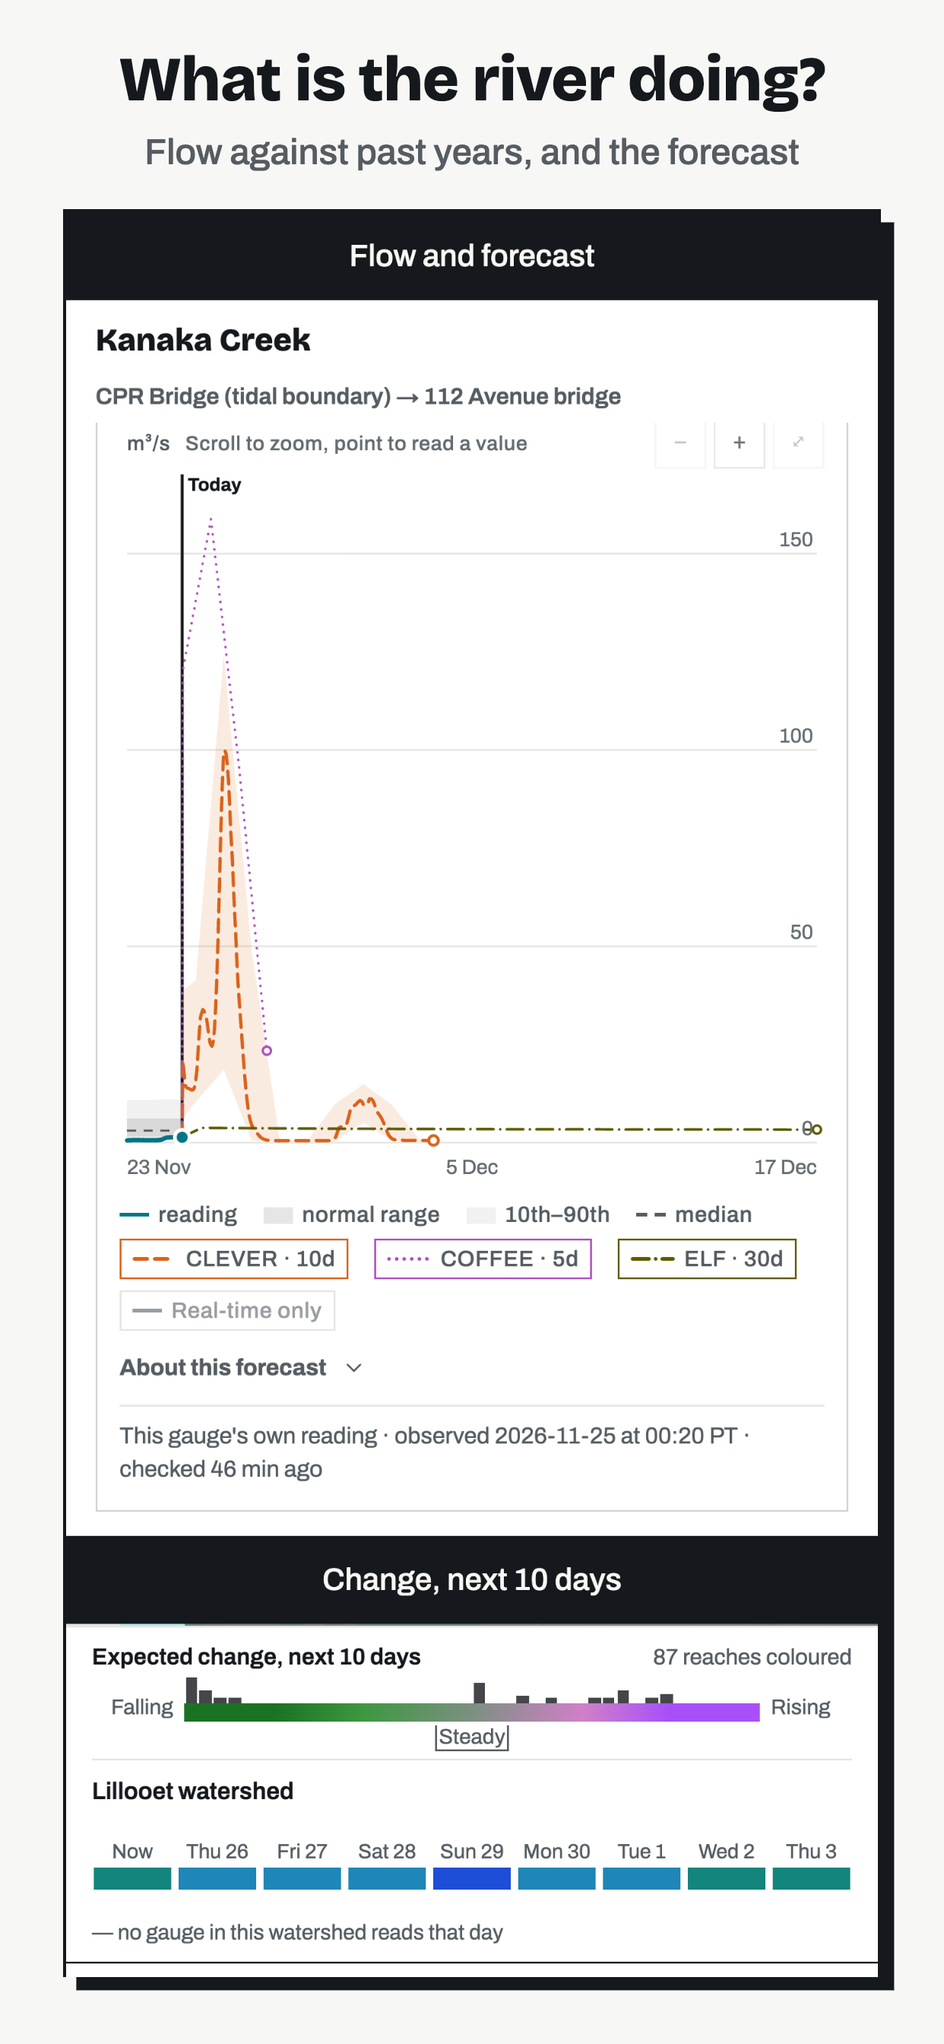
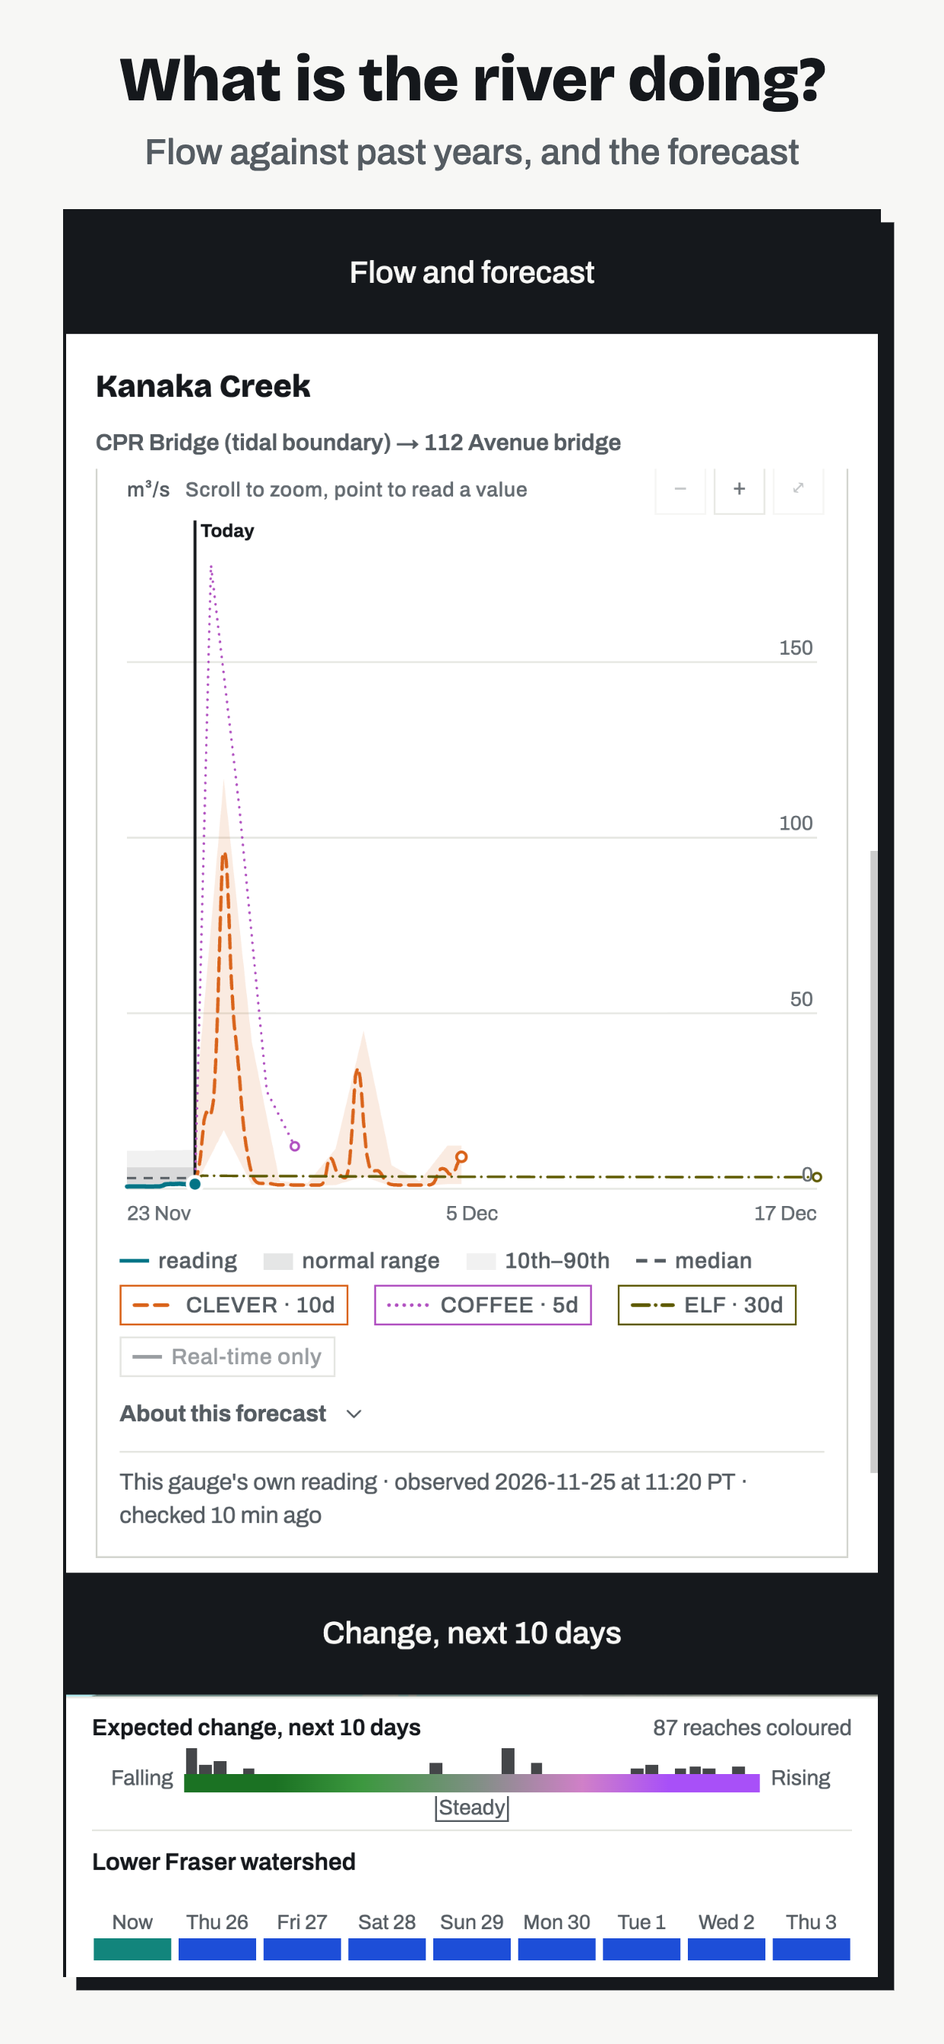
feat(T1072): drop the Play tablet sets; frame 3 names the river's own watershed
Owner 2026-11-25: "Drop tablet set. And you can get them to fix picture".
The push clears the tablet slots. Frame 3: the Change panel names the watershed most on
screen; the scene frames the map on the river's watershed, a check refuses another name,
and the crops include the day strip.

diff --git a/app/tools/store-shots/checks.test.ts b/app/tools/store-shots/checks.test.ts
@@ -38,9 +38,16 @@ describe('store shot checks', () => {
     expect(judge('15-split-rules', page(), { parts: 1 })[0]).toMatch(/more than one/);
     expect(judge('15-split-rules', page(), {})[0]).toMatch(/more than one/);
   });
+  it('(T1072) the Change panel must name the river\'s own watershed (Lower Fraser for Kanaka Creek), never the neighbour in view', () => {
+    const t = (w: string) => ({ text: `Change 3 reaches coloured\n${w} watershed\nNow`, ids: ['map-horizons-change'] });
+    expect(judge('12-cond-change', page(t('Lillooet')))[0]).toMatch(/names the "Lillooet" watershed, not "Lower Fraser"/);
+    expect(judge('12-cond-change', page({ text: 'Change 3 reaches coloured', ids: ['map-horizons-change'] }))[0]).toMatch(/names the "null" watershed/);
+    expect(judge('12-cond-change', page(t('Lillooet')), { watershedSeen: ['Lillooet', 'Seton Lake'] })[0]).toMatch(/tried: Lillooet, Seton Lake/);
+  });
   it('the Conditions maps need the 20 km camera and coloured reaches', () => {
-    expect(judge('12-cond-change', page({ text: 'Change 3 reaches coloured', ids: ['map-horizons-change'] }))).toEqual([]);
-    expect(judge('12-cond-change', page({ text: 'Change 3 reaches coloured', ids: ['map-horizons-change'], scale: '10 km' }))[0]).toMatch(/20 km/);
+    const ok = { text: 'Change 3 reaches coloured\nLower Fraser watershed\nNow', ids: ['map-horizons-change'] };
+    expect(judge('12-cond-change', page(ok))).toEqual([]);
+    expect(judge('12-cond-change', page({ ...ok, scale: '10 km' }))[0]).toMatch(/20 km/);
     expect(judge('13-cond-forecast', page({ text: 'Forecast still loading', ids: [] })).join()).toMatch(/still loading/);
   });
 });

diff --git a/deploy/staging/play-listing-push.py b/deploy/staging/play-listing-push.py
@@ -2,7 +2,7 @@
 """Push the store listing (text, phone screenshots, icon, feature graphic, promo video URL) to Google Play.
 
     play-listing-push.py [--package ca.canifishthis.app] [--language en-US ...] [--shots DIR] [--video-url URL]
-                         [--tablet7 DIR] [--tablet10 DIR] [--key ~/.canifishthis/play-service-account.json]
+                         [--key ~/.canifishthis/play-service-account.json]
                          [--plan | --commit]
 
 --plan (T319) sends NOTHING: it checks every file and the text and prints what would go to which listing, in order.
@@ -15,10 +15,11 @@ print what would change, then DELETE the edit; nothing reaches the listing. --co
 - Phone screenshots: the pictures in --shots (default: the repo's one set, STORE/play-phone), in file-name
   order, REPLACE the listing's phone screenshots (skipped when Play already holds the same files in the same order).
 - --no-shots (T319): text, icon and feature graphic only; every screenshot set on Play is left as it is.
-- Tablet screenshots (T319, T1072): --tablet7 / --tablet10 folders, the same way (7-inch and 10-inch sets); the defaults are
-  the repo's play-tablet7 / play-tablet10, the same committed set the App Store push reads (store-shots.mjs writes them);
-  --no-shots leaves all three sets alone.
-- (T1127) The pictures in each of the three folders must be EXACTLY the list app/tools/store-shots.json implies
+- Tablet screenshots (T1072, owner 2026-11-25 "Drop tablet set"): there is NO tablet set any more, and no --tablet7 /
+  --tablet10. The 7-inch and 10-inch slots are always CLEARED: whatever tablet screenshots Play holds from the old set are
+  deleted (images.deleteall) in the same edit, so no old tablet picture stays on the listing; a slot already empty is left
+  alone. Plan mode says so for each slot. --no-shots leaves them (and the phone set) alone.
+- (T1127) The pictures in the phone folder must be EXACTLY the list app/tools/store-shots.json implies
   (deploy/staging/store_shots_list.py): a leftover picture or a missing one stops the run by name, in every mode, before
   any network call. Plan mode prints the count and names per size.
 - Icon + feature graphic: handoff/PLAN/app-integration/store/graphics/{app-icon-512,feature-graphic-1024x500}.png,
@@ -51,6 +52,7 @@ LISTING = ROOT / "app/store-listing/listing.json"
 DESCRIPTION = LISTING
 LIMITS = {"title": 30, "shortDescription": 80, "fullDescription": 4000}
 CANDIDATE_LANGUAGES = ("en-CA", "en-US")
+TABLET_SLOTS = {"sevenInchScreenshots": "7-inch", "tenInchScreenshots": "10-inch"}   # (T1072) always cleared: no tablet set
 MIME = {"PNG": "image/png", "JPEG": "image/jpeg"}
 
 
@@ -144,8 +146,6 @@ def main():
     ap.add_argument("--feature", type=Path, default=GRAPHICS / "feature-graphic-1024x500.png")
     ap.add_argument("--video-url")
     ap.add_argument("--key", default=os.path.expanduser("~/.canifishthis/play-service-account.json"))
-    ap.add_argument("--tablet7", type=Path, default=SET / "play-tablet7", help="7-inch tablet screenshots (default: the repo's committed set)")
-    ap.add_argument("--tablet10", type=Path, default=SET / "play-tablet10", help="10-inch tablet screenshots (default: the repo's committed set)")
     ap.add_argument("--no-shots", action="store_true", help="text, icon and feature graphic only; screenshots left as they are")
     ap.add_argument("--appstore", action="store_true", help="print the App Store Connect fields with length/limit; sends nothing")
     mode = ap.add_mutually_exclusive_group()
@@ -160,21 +160,14 @@ def main():
     text = read_text()
     try:   # (T1127) each size folder must hold exactly store-shots.json's list: a leftover or a gap stops the run, by name
         shots = [] if a.no_shots else pictures(a.shots, "play-phone")
-        tablets = {} if a.no_shots else {k: pictures(d, t) for k, d, t in (
-            ("sevenInchScreenshots", a.tablet7, "play-tablet7"), ("tenInchScreenshots", a.tablet10, "play-tablet10")) if d}
     except ValueError as e:
         die(str(e))
     if not a.no_shots and not 2 <= len(shots) <= 8:
         die(f"{a.shots} holds {len(shots)} screenshots; Play takes 2-8 phone screenshots")
-    if a.no_shots:
-        a.tablet7 = a.tablet10 = None   # --no-shots leaves every screenshot set alone, the tablet defaults included
     images = {"icon": [a.icon], "featureGraphic": [a.feature]}
     if not a.no_shots:
         images["phoneScreenshots"] = shots
-    for kind, tab in tablets.items():
-        if not 1 <= len(tab) <= 8:
-            die(f"{kind}: {len(tab)} screenshots; Play takes up to 8 per tablet size")
-        images[kind] = tab
+    cleared = [] if a.no_shots else list(TABLET_SLOTS)   # (T1072) no tablet set: those slots are emptied, never left holding the old set
     mime = {p: check_image(kind, p) for kind, paths in images.items() for p in paths}
     print(f"assets fit Play's rules: {len(shots)} screenshots, icon, feature graphic; text "
           f"{len(text['shortDescription'])}/80 short, {len(text['fullDescription'])}/4000 full")
@@ -192,6 +185,10 @@ def main():
                 with Image.open(p) as im:
                     w, h = im.size
                 print(f"    {i}. {p.relative_to(ROOT) if p.is_relative_to(ROOT) else p}  {w}x{h}  {p.stat().st_size // 1024} KB")
+        for kind in cleared:
+            print(f"  {kind}: CLEARED ({TABLET_SLOTS[kind]}: no tablet set any more; whatever Play holds there is deleted, an empty slot is left)")
+        if not cleared:
+            print("  tablet slots (7-inch, 10-inch): left as they are (--no-shots)")
         print("plan only: nothing sent. Without --plan: a validated dry run (uploads into an edit, then deletes it); --commit pushes.")
         return
 
@@ -209,7 +206,7 @@ def main():
         for lang, l in listings.items():
             print(f"  [{lang}] title={l.get('title', '')!r} short={len(l.get('shortDescription', ''))} chars "
                   f"full={len(l.get('fullDescription', ''))} chars video={l.get('video', '') or 'none'}")
-            for kind in images:
+            for kind in [*images, *cleared]:
                 got = ok(s.get(f"{e}/listings/{lang}/{kind}"), f"images.list {lang} {kind}").get("images", [])
                 listings[lang].setdefault("_images", {})[kind] = [i.get("sha256", "") for i in got]
                 print(f"    {kind}: {len(got)}")
@@ -242,6 +239,11 @@ def main():
                     ok(r, f"images.upload {lang} {kind} {p.name}")
                 print(f"  [{lang}] {kind}: {len(have.get(kind, []))} -> {len(paths)} "
                       f"({', '.join(p.name for p in paths)})")
+            for kind in cleared:
+                n = len(have.get(kind, []))
+                if n:
+                    ok(s.delete(f"{e}/listings/{lang}/{kind}"), f"images.deleteall {lang} {kind}")
+                print(f"  [{lang}] {kind}: {n} -> 0 ({TABLET_SLOTS[kind]}: cleared)" if n else f"  [{lang}] {kind}: already empty")
 
         ok(s.post(f"{e}:validate"), "edits.validate")
         print("\nvalidate: passed")

diff --git a/pipeline/tests/test_store_push_pictures.py b/pipeline/tests/test_store_push_pictures.py
@@ -20,7 +20,7 @@ sys.path.insert(0, str(STAGING))
 import store_shots_list  # noqa: E402
 
 PLAY, ASC = STAGING / "play-listing-push.py", STAGING / "appstore-screenshots-push.py"
-TARGETS = ["play-phone", "play-tablet7", "play-tablet10", "appstore-6.9", "appstore-6.5"]
+TARGETS = ["play-phone", "appstore-6.9", "appstore-6.5"]
 
 
 def _run(script: Path, *args: str) -> subprocess.CompletedProcess:
@@ -41,7 +41,7 @@ def _set_copy(tmp_path: Path) -> Path:
 def _args(script: Path, root: Path) -> list[str]:
     if script == ASC:
         return ["--shots", str(root)]
-    return ["--shots", str(root / "play-phone"), "--tablet7", str(root / "play-tablet7"), "--tablet10", str(root / "play-tablet10")]
+    return ["--shots", str(root / "play-phone")]
 
 
 def test_helper_list_matches_what_the_json_implies():
@@ -62,11 +62,11 @@ def test_helper_list_is_what_is_committed():
 def test_the_real_set_passes_and_prints_counts(script):
     r = _run(script)
     assert r.returncode == 0, r.stdout + r.stderr
-    assert r.stdout.count("01-01-map.png") >= (3 if script == PLAY else 2)
+    assert r.stdout.count("01-01-map.png") >= (1 if script == PLAY else 2)
     assert "7 screenshots" in r.stdout or ": 7 " in r.stdout
 
 
-@pytest.mark.parametrize("script,folder", [(PLAY, "play-phone"), (PLAY, "play-tablet7"), (PLAY, "play-tablet10"),
+@pytest.mark.parametrize("script,folder", [(PLAY, "play-phone"),
                                            (ASC, "appstore-6.9"), (ASC, "appstore-6.5")])
 def test_a_stray_picture_stops_the_run_by_name(script, folder, tmp_path):
     root = _set_copy(tmp_path)
@@ -79,7 +79,7 @@ def test_a_stray_picture_stops_the_run_by_name(script, folder, tmp_path):
 @pytest.mark.parametrize("script", [PLAY, ASC], ids=["play", "appstore"])
 def test_a_missing_picture_stops_the_run_by_name(script, tmp_path):
     root = _set_copy(tmp_path)
-    folder = "appstore-6.5" if script == ASC else "play-tablet10"
+    folder = "appstore-6.5" if script == ASC else "play-phone"
     (root / folder / "03-21-rivers.png").unlink()
     r = _run(script, *_args(script, root))
     assert r.returncode != 0
@@ -94,3 +94,14 @@ def test_the_appstore_script_ignores_folders_it_has_no_slot_for(tmp_path):
     r = _run(ASC, "--shots", str(root))
     assert r.returncode == 0, r.stderr
     assert "09-old.png" not in r.stdout
+
+
+def test_the_play_push_has_no_tablet_set_and_says_it_clears_the_slots():
+    """T1072 (owner 2026-11-25 "Drop tablet set"): no tablet option; plan mode states both tablet slots are cleared."""
+    r = _run(PLAY)
+    assert r.returncode == 0, r.stderr
+    assert "sevenInchScreenshots: CLEARED" in r.stdout and "tenInchScreenshots: CLEARED" in r.stdout
+    assert "7-inch" in r.stdout and "10-inch" in r.stdout
+    assert _run(PLAY, "--tablet7", "x").returncode != 0
+    r = _run(PLAY, "--no-shots")
+    assert r.returncode == 0 and "CLEARED" not in r.stdout and "left as they are" in r.stdout

diff --git a/handoff/PLAN/app-integration/tickets/T1072-store-screenshots-and-marketing-content.md b/handoff/PLAN/app-integration/tickets/T1072-store-screenshots-and-marketing-content.md
@@ -19,7 +19,7 @@ a new version, so the set that goes up with the first version stays until the ne
 Found by the iOS chat 2026-11-24 (facts, not yet acted on):
 - The newest complete set is not in the repo: it is on the owner's machine at
   `~/bcfish-session-backup-2026-11-12/store-t319-final-082/` (rendered 2026-11-19 from 0.8.2; 7 frames each in
-  appstore-6.9 at 1320x2868, appstore-6.5 at 1242x2688, play-phone, play-tablet7, play-tablet10; no alpha).
+  appstore-6.9 at 1320x2868, appstore-6.5 at 1242x2688, play-phone, plus two tablet sets since dropped (2026-11-25); no alpha).
 - The repo's `store/light/` holds only the 2026-11-05 set, with a 6.7" folder. `deploy/staging/appstore-screenshots-push.py`
   defaults to that folder but expects appstore-6.9, so its default run finds no 6.9" pictures.
 - Nothing has been uploaded to App Store Connect yet.
@@ -51,9 +51,9 @@ square card with the hard ink shadow; no device frame, status bar, store badge, 
 - condMap fix (tablet10 12-cond-change "reads 5 km"): MapLibre's wheel handler piles up close events, which made the old pair-of-notches loop
   step over the level; now ONE wheel event at a time (about a fifth of a level), the scale bar settled between, out past the target then in to its first
   reading, so it cannot oscillate. The target is 20 km since the owner's zoom-out ask below (the content check and scene changed together).
-- WHERE: the finished set is committed at `handoff/PLAN/app-integration/store/graphics/store/light/{appstore-6.9,appstore-6.5,play-phone,play-tablet7,play-tablet10}/NN-<scene>.png`
+- WHERE: the finished set is committed at `handoff/PLAN/app-integration/store/graphics/store/light/{appstore-6.9,appstore-6.5,play-phone}/NN-<scene>.png` (the two Play tablet sets were dropped 2026-11-25)
   (`.gitignore` there now tracks `store/light` only; raw/ stays ignored). Both push scripts read it with no arguments
-  (`deploy/staging/appstore-screenshots-push.py`, `deploy/staging/play-listing-push.py`; the Play script's tablet defaults are the two tablet folders).
+  (`deploy/staging/appstore-screenshots-push.py`, `deploy/staging/play-listing-push.py`; the Play script has no tablet option: it clears the tablet slots).
 - REGENERATE: `scripts/heavy.sh store-shots 30 -- node app/tools/store-shots.mjs --theme light` (builds its own store-shots web export, T1076;
   `--reuse` serves the export already built).
 Part 2 (marketing words, T1072 work items 2-4) is not in this change.
@@ -68,7 +68,15 @@ Part 2 (marketing words, T1072 work items 2-4) is not in this change.
 - Every part starts and ends on a whole line: the crops were re-picked from the new captures by eye at all four raw sizes, and the label bands now SHARE WHAT IS LEFT (3-7 % each, refused outside that,
   store-shots.mjs `composeRaw`) so no crop has to be bent to make a sum come out.
 - A page that says "Slow connection" is not shot (checks.mjs); the search scene waits for its results instead of a fixed sleep.
-- Known, not fixed: on the tall phones and tablets the conditions panel names the watershed at the map's centre ("Lillooet" / "Seton Lake" watershed on iphone69 and the tablets, "Lower Fraser" on the phone), not the river's own.
+- Was known, now fixed (2026-11-25, see "Owner answers 2026-11-25 (tablets, frame 3)"): on the tall phones the conditions panel named the watershed most on screen ("Lillooet" on iphone69, "Lower Fraser" on the phone), not the river's own.
+
+### Owner answers 2026-11-25 (tablets, frame 3), relayed by the planning chat, his words: "Drop tablet set. And you can get them to fix picture"
+- Tablets dropped: targets `play-tablet7` / `play-tablet10` are gone from `store-shots.json` (and their per-size crops), the two folders are deleted,
+  `play-listing-push.py` has no `--tablet7/--tablet10`. It always clears the 7-inch and 10-inch slots (images.deleteall when Play holds any), so no old-set tablet picture stays;
+  with no tablet screenshots Play, to our understanding, shows the phone screenshots on tablet listings (the app loses only the larger-format treatment).
+- Frame 3 ("What is the river doing?"): the Change panel names the watershed MOST ON SCREEN (`useViewBasin`, ui/src/basin.ts; asked from the map's visible bounds), by design,
+  so on the tall 6.9 view the 20 km map held more Lillooet than Lower Fraser. The shot's scene now frames the map on the river's watershed, and `checks.mjs` refuses a capture whose panel
+  names another watershed. Not a wrong-name bug: the dash key "no gauge in this watershed reads that day" shows for Lower Fraser too (it appears whenever any listed day has no reading), so the frame's crop now ends above it (and above the tab bar's black rule); the phone's crop also now includes the day strip it used to cut off (its last column is clipped by the 360 px width, the app's own layout). `--scenes` now frames only the frames that use a re-shot scene and keeps the rest of each folder. Reshot 2026-11-25 for play-phone, appstore-6.9, appstore-6.5; the other 18 pictures are untouched.
 
 ### Owner additions, 2026-11-25 (verbatim) and what they changed
 - ~00:20: "picutres should be captured quicker ideally. also we should zoom them out a little more so it shows more content on the map views".
@@ -126,7 +134,7 @@ The first App Store version has no "What's New" field (Apple shows it from the s
   not in `app/tools/store-shots.json`'s list, or a listed one missing, stops every mode by name before any network call. Clear them
   (once no release is running from that checkout) or upload from a clean checkout of main; `--plan` / `--check` list exactly 7
   per size, `01-01-map` … `07-06-search`.
-- Play (pictures, tablets, text, icon, feature graphic): `.venv/bin/python deploy/staging/play-listing-push.py --plan` to read what
+- Play (pictures, text, icon, feature graphic; the 7-inch and 10-inch tablet slots are CLEARED, any old tablet screenshots on the listing are deleted in the same edit, plan mode says so): `.venv/bin/python deploy/staging/play-listing-push.py --plan` to read what
   would go, then the same with `--commit`.
 - App Store (once the version exists in App Store Connect): `.venv/bin/python deploy/staging/appstore-screenshots-push.py --check`
   (read-only), then `--commit`. The text fields are pasted from `handoff/PLAN/ios/APP-STORE-SUBMISSION.md`

diff --git a/handoff/PLAN/RESTART-store-content-chat.md b/handoff/PLAN/RESTART-store-content-chat.md
@@ -17,11 +17,10 @@ planning chat; work only in scratchpad worktrees, never the main checkout.
    scenes may be shot from the website (`--web <url>`; only 07-saved-spot and 20-help need the store-shots build).
 3. **The one set: PR #192** (auto-merge set, CI running at 02:15). 35 PNGs in
    `handoff/PLAN/app-integration/store/graphics/store/light/` (`appstore-6.9`, `appstore-6.5`, `play-phone`,
-   `play-tablet7`, `play-tablet10`); both push scripts read it with no arguments (plan modes clean, nothing sent).
+   no tablet sets: dropped 2026-11-25); both push scripts read it with no arguments (plan modes clean, nothing sent).
    Regenerate: `scripts/heavy.sh store-shots 30 -- node app/tools/store-shots.mjs --theme light` (about 6 minutes;
    one frame: add `--reuse --scenes <nn> --only <target>`). One review round is spent. Known nits, owner asked:
-   the watershed name under the flow chart differs by size ("Lower Fraser" on the phone, "Lillooet" on the 6.9");
-   the tablets leave white space (phone layout on a tablet canvas).
+   both answered 2026-11-25 ("Drop tablet set. And you can get them to fix picture"): tablets dropped, frame 3's watershed name fixed (see T1072).
 4. **Listing words: merged (#170, #175).** One source `app/store-listing/listing.json` (+ `full-description.txt`);
    `play-listing-push.py --appstore` prints the App Store fields. Owner's answers (2026-11-24 ~23:55) are in T1072:
    promotional text = his short line, keywords without the name's words, Navigation / Sports, 500 MB, graphic kept.
@@ -42,7 +41,7 @@ planning chat; work only in scratchpad worktrees, never the main checkout.
   no Android system buttons, no "Google Play" or "Android" wording in the shared frames.
 - Play: no store badges, no "Best / #1 / Top / New / Free", no "Download now"; a caption takes at most 20 % of the
   picture; nothing time-bound. Apple 2.3.7: no prices in pictures or text.
-- Sizes differ only in pixels: Play phone 1080x1920 (2 to 8 pictures), tablets 7" 1200x1920 and 10" 1600x2560;
+- Sizes differ only in pixels: Play phone 1080x1920 (2 to 8 pictures), no tablet sets (the push clears the tablet slots);
   App Store 6.9" 1320x2868 (required slot) and 6.5" 1242x2688 (optional once 6.9" is given), 1 to 10, no alpha.
 - App Store pictures change only with a new version; Play's can change any day.
 

diff --git a/handoff/PLAN/play/listing.md b/handoff/PLAN/play/listing.md
@@ -129,7 +129,7 @@ All files are in `handoff/PLAN/app-integration/store/graphics/`.
 | App icon, 512 × 512 PNG | `app-icon-512.png` (the favicon fish, owner 2026-10-29; source `app/apps/mobile/assets/icon/play-512.png`, `app/tools/build-icons.mjs`) | ready |
 | Feature graphic, 1024 × 500, no alpha | `feature-graphic-1024x500.png` (the fish, the name and one line; `app/tools/build-play-graphics.mjs`) | ready. **OWNER:** its name must match the app name you pick above. If you change it, rerun `node app/tools/build-play-graphics.mjs` |
 | Phone screenshots, 2 to 8 | the one committed set `store/light/play-phone/` (7 pictures, `app/tools/store-shots.json`; the old `03-conditions.png` and `quick/` drafts were deleted, T1127) | drafts from the STAGING web app (`app/tools/play-shots.mjs`, headless). **OWNER:** keep them for closed testing, or retake them from the current phone build (0.7.7; the 0.5.0 named here before is stale). The shot list is in listing-draft.md. A saved spot and a share shot are not taken yet. |
-| Tablet screenshots (7", 10") | none | `play-shots.mjs` can make them at 1200 × 1920 and 1600 × 2560. Play only needs them if you list for tablets. |
+| Tablet screenshots (7", 10") | none | Dropped by the owner 2026-11-25: `play-listing-push.py` clears both tablet slots on a push (T1072). |
 | Video | none | optional |
 
 ## Pushing the listing to Play
